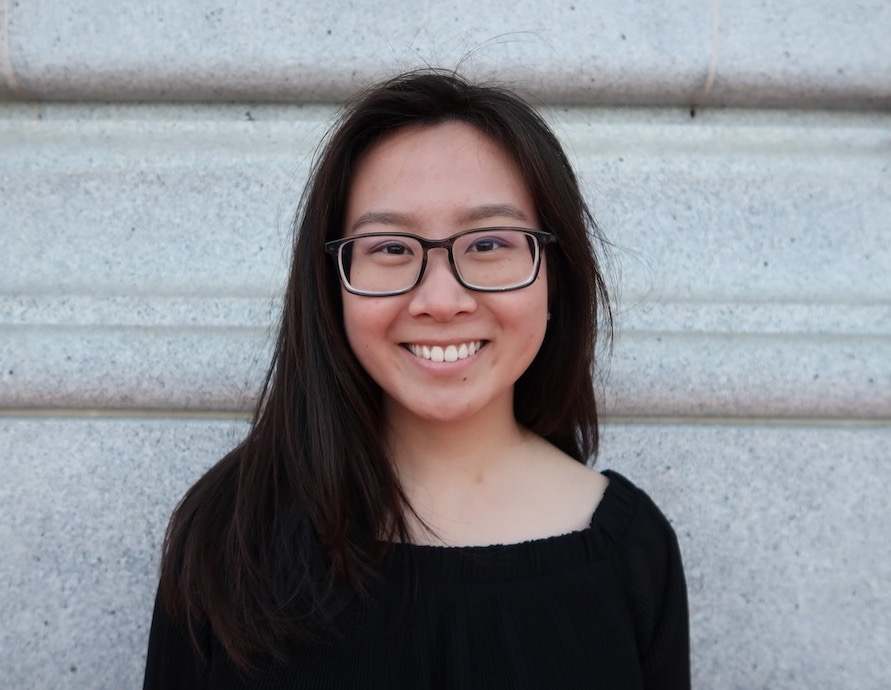
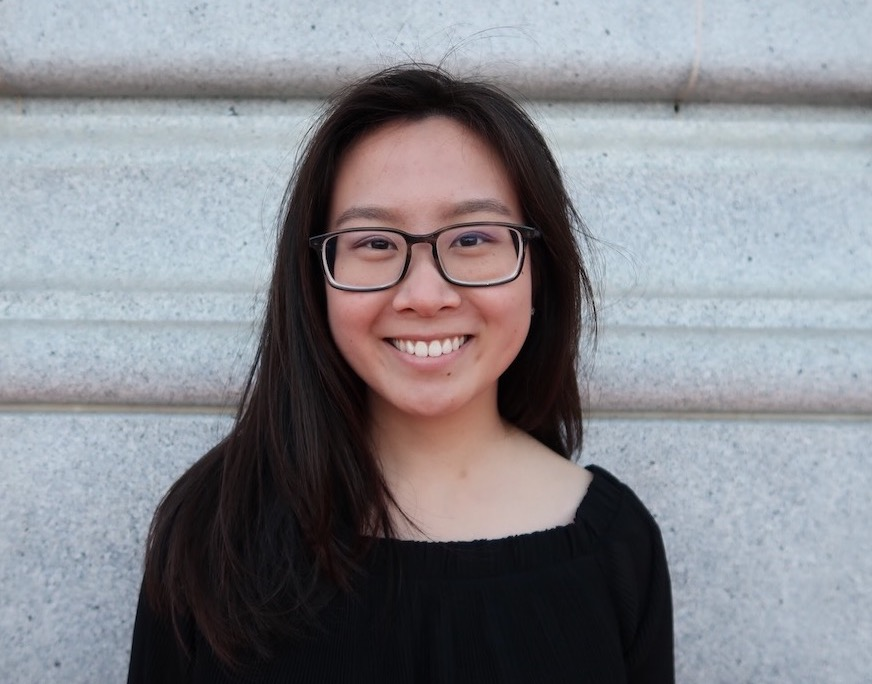
photo

diff --git a/index.html b/index.html
@@ -8,7 +8,7 @@ title: Sophia
 			<p class="emphasized"> 
 				Aspiring software engineer passionate about...
 			</p>
-			<img src="images/sophia-headshot.JPG">
+			<img src="images/sophia-headshot.JPG" width="70" height="50" alt="Sophia headshot">
 		</div>
 
 		<footer>
